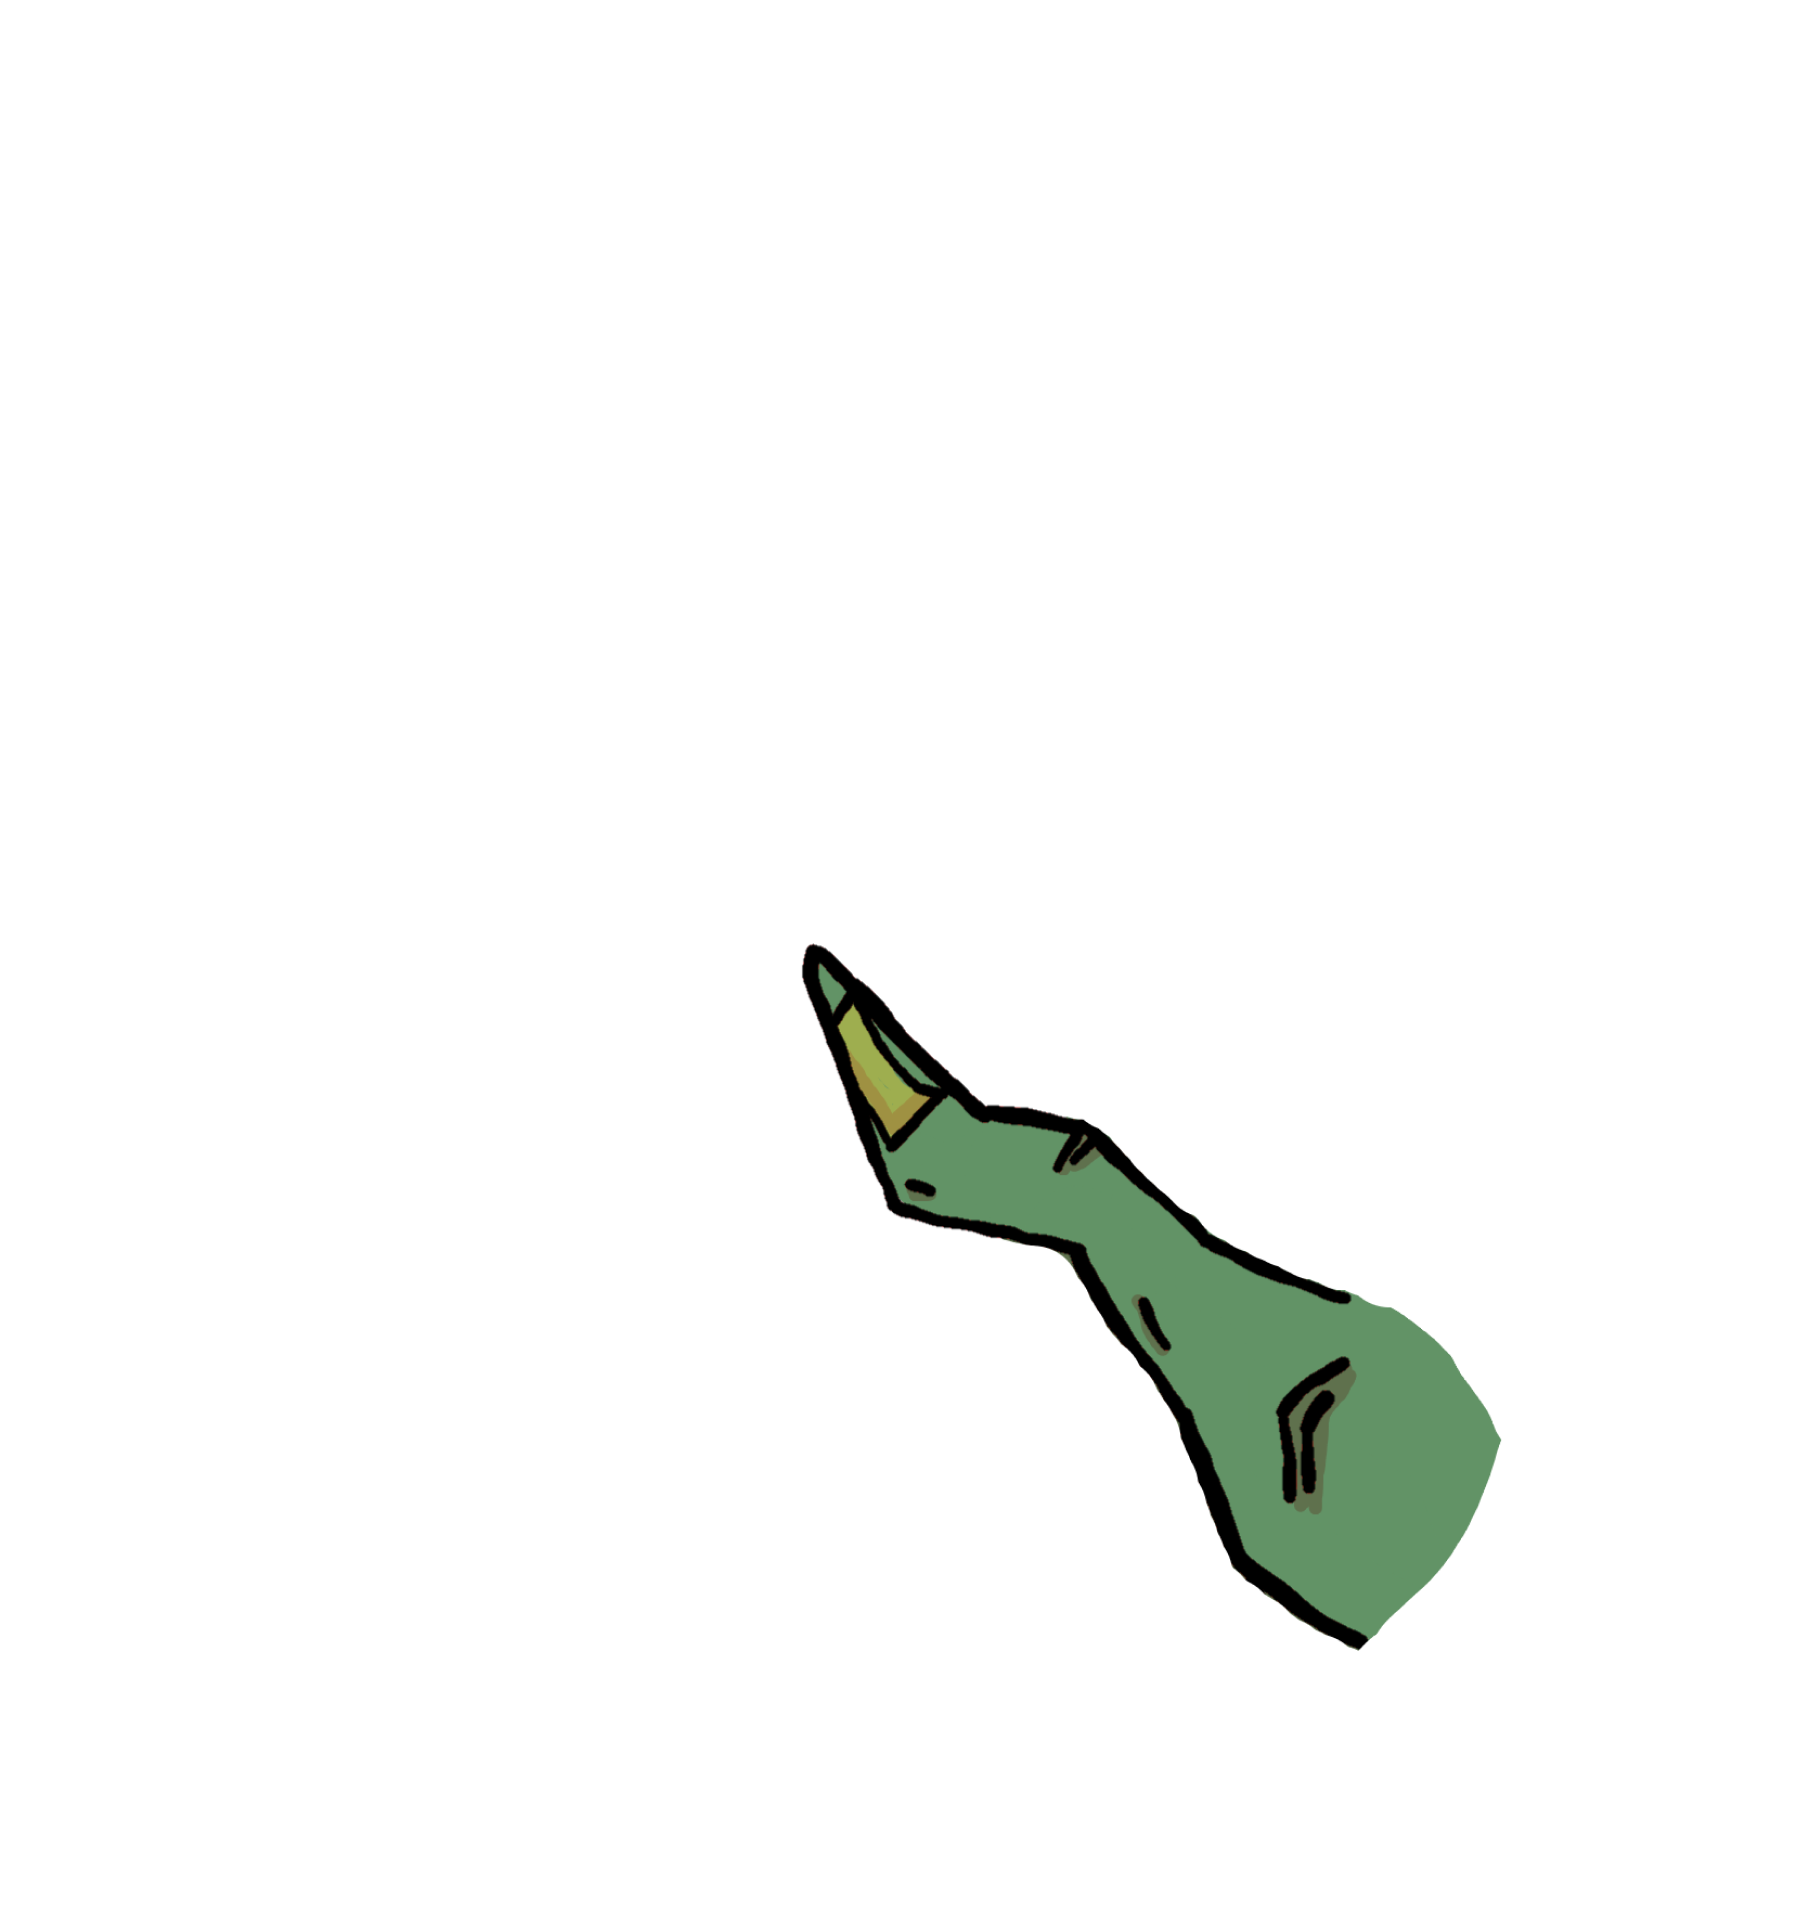
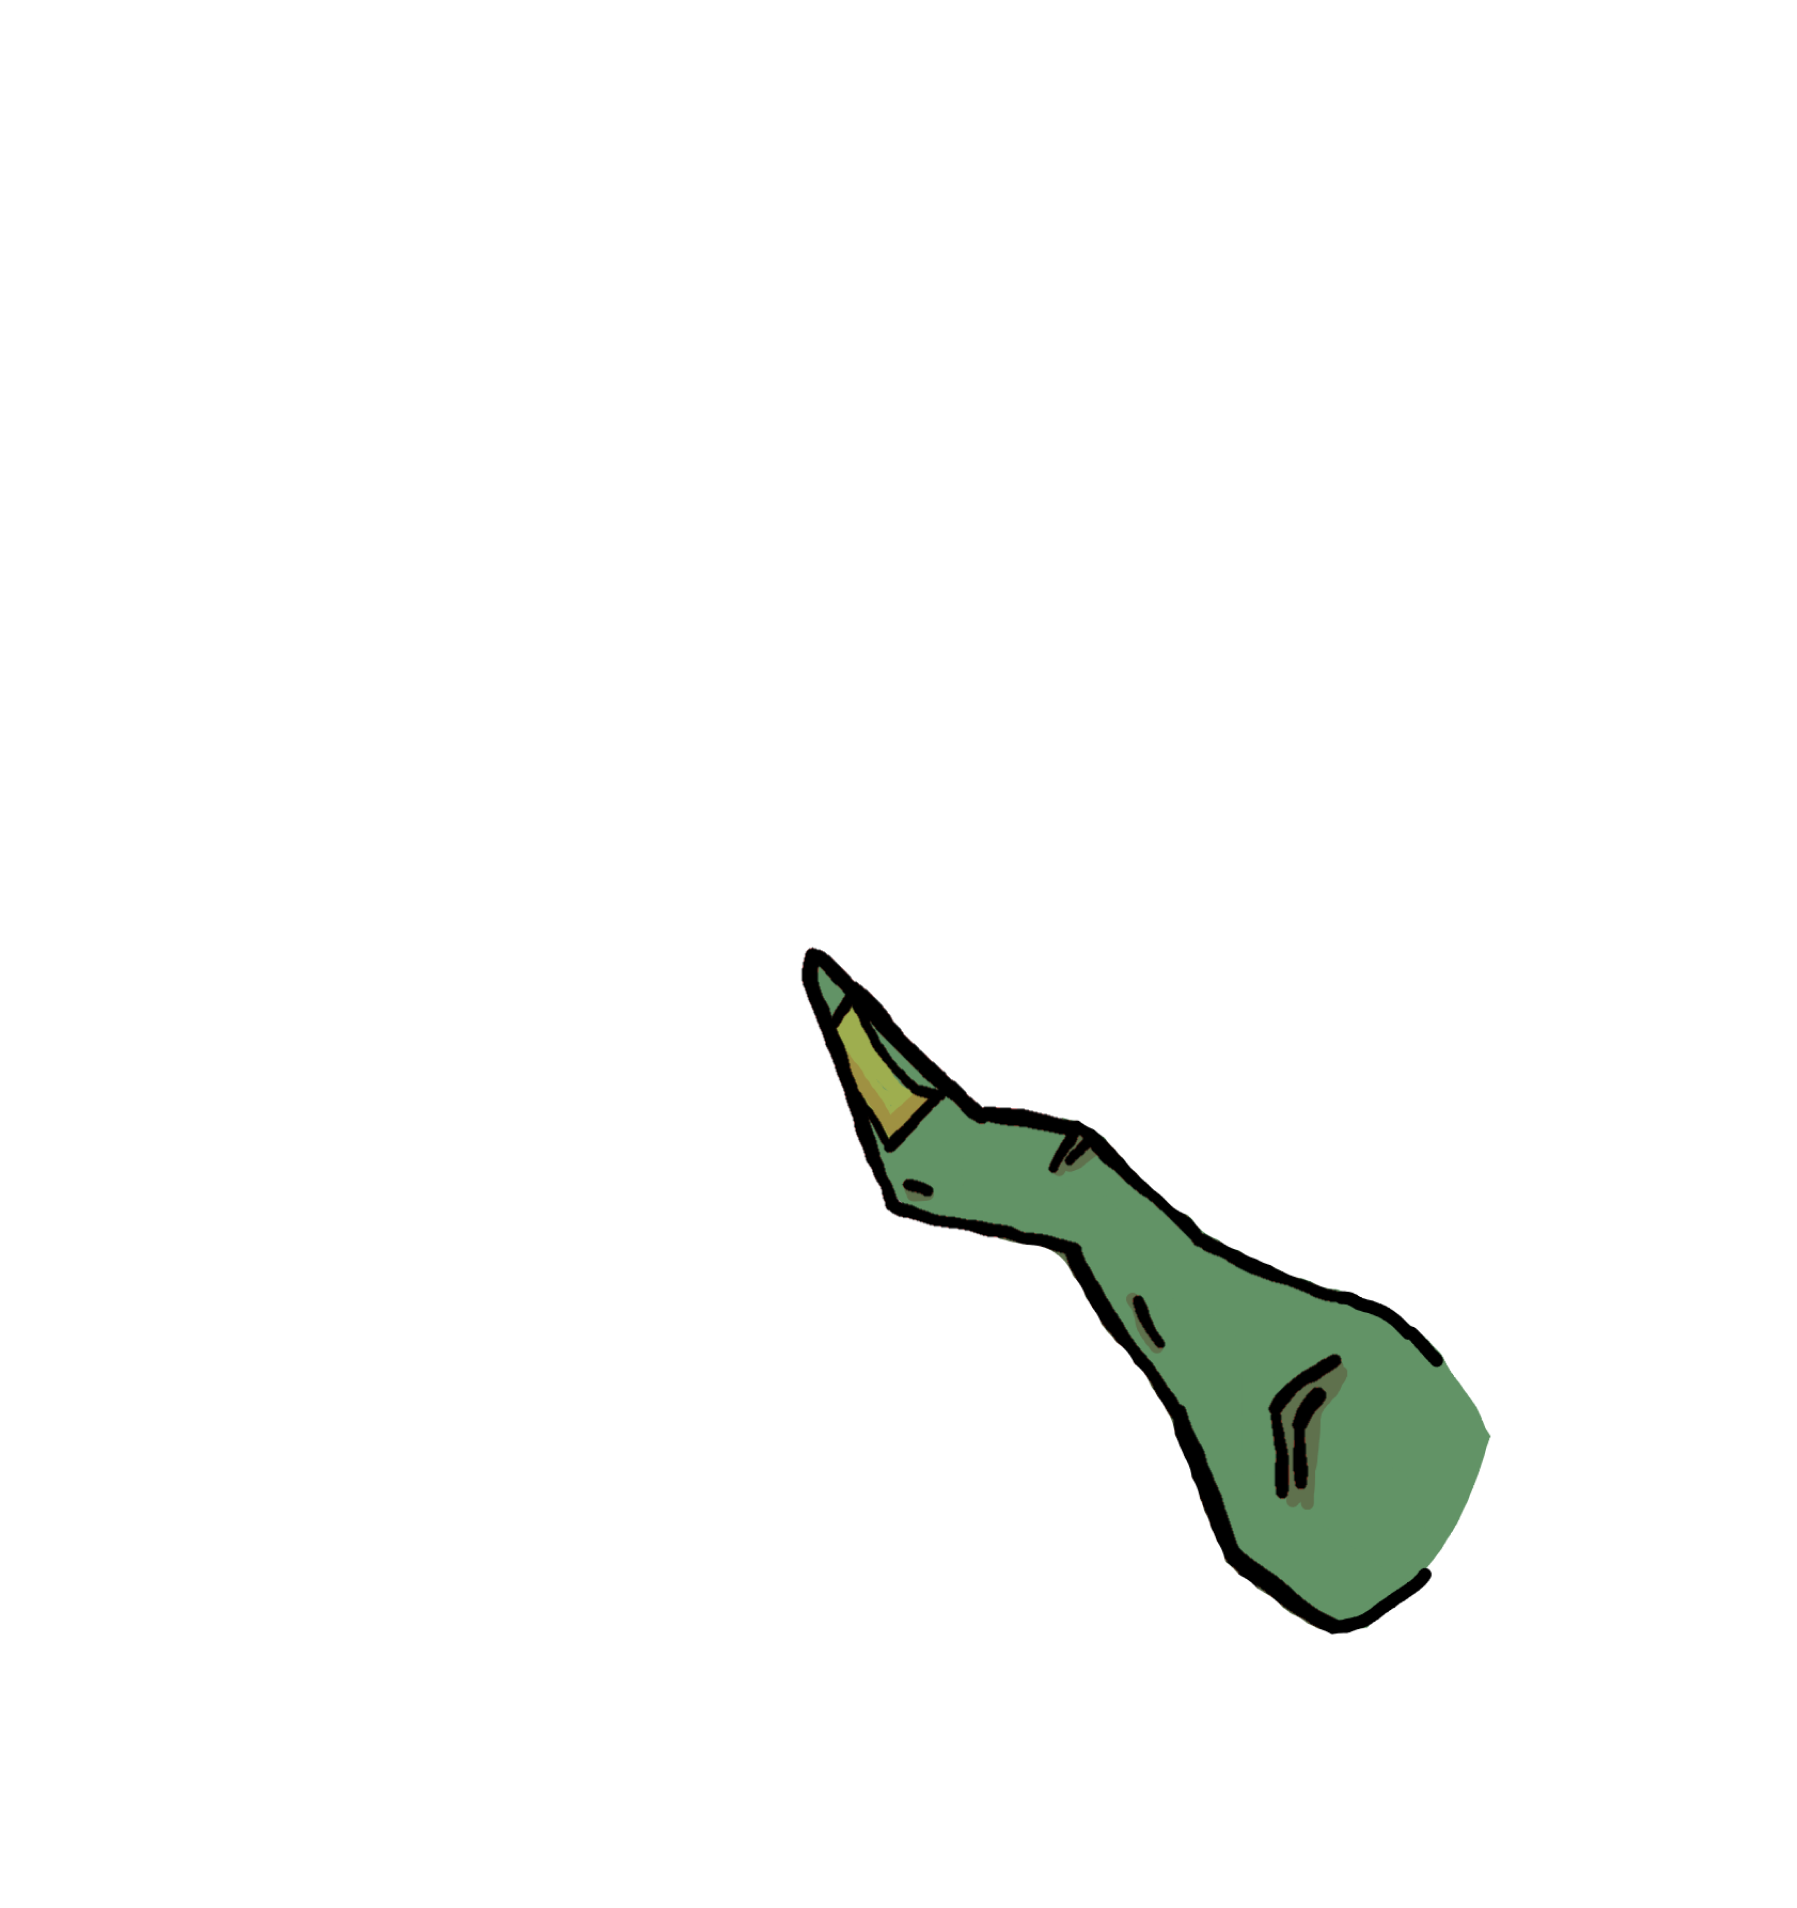
Update phone component & minor updates

diff --git a/src/routes/index.svelte b/src/routes/index.svelte
@@ -1,56 +1,35 @@
 <script lang="ts">
 	import { PageMeta } from '$util/meta';
-
-	import Phone from '$components/phone/Phone.svelte';
-	// import GoblinGirl from '$components/GoblinGirl.svelte';
-	import Ground from '$components/environment/Ground.svelte';
-	import Background from '$components/environment/Background.svelte';
 </script>
 
 <PageMeta />
-<section class="index-page">
-	<Phone>
-		<p>Test</p>
-		<p>Test</p>
-		<p>Test</p>
-		<p>Test</p>
-		<p>Test</p>
-		<p>Test</p>
-		<p>Test</p>
-		<p>Test</p>
-		<p>Test</p>
-		<p>Test</p>
-		<p>Test</p>
-		<p>Test</p>
-		<p>Test</p>
-		<p>Test</p>
-		<p>Test</p>
-		<p>Test</p>
-		<p>Test</p>
-		<p>Test</p>
-		<p>Test</p>
-		<p>Test</p>
-		<p>Test</p>
-		<p>Test</p>
-
-		<p>Test</p>
-		<p>Test</p>
-		<p>Test</p>
-		<p>Test</p>
-		<p>Test</p>
-		<p>Test</p>
-		<p>Test</p>
-	</Phone>
-	<!-- <GoblinGirl /> -->
-	<Ground />
-	<Background />
-</section>
-
-<style lang="scss">
-	.index-page {
-		position: relative;
-		max-width: 100vw;
-		max-height: 100vh;
-		overflow: hidden;
-	}
-</style>
+<p>Test</p>
+<p>Test</p>
+<p>Test</p>
+<p>Test</p>
+<p>Test</p>
+<p>Test</p>
+<p>Test</p>
+<p>Test</p>
+<p>Test</p>
+<p>Test</p>
+<p>Test</p>
+<p>Test</p>
+<p>Test</p>
+<p>Test</p>
+<p>Test</p>
+<p>Test</p>
+<p>Test</p>
+<p>Test</p>
+<p>Test</p>
+<p>Test</p>
+<p>Test</p>
+<p>Test</p>
+<a href="/test">Link</a>
+<p>Test</p>
+<p>Test</p>
+<p>Test</p>
+<p>Test</p>
+<p>Test</p>
+<p>Test</p>
+<p>Test</p>

diff --git a/src/components/phone/Thumb.svelte b/src/components/phone/Thumb.svelte
@@ -1,0 +1,40 @@
+<script lang="ts">
+	export let display: HTMLElement;
+
+	let thumb: HTMLElement;
+	let bounds: DOMRect;
+
+	const moveThumb = (e: MouseEvent) => {
+		const cursorX = e.clientX;
+		const leftX = cursorX - bounds.x;
+		const rotateDegMax = 27;
+		const rotateDegMin = -27;
+
+		thumb.style.transform = `rotate(${
+			((rotateDegMax - rotateDegMin) * leftX) / bounds.width + rotateDegMin
+		}deg)`;
+	};
+
+	$: if (display) {
+		display.onmouseenter = () => {
+			bounds = display.getBoundingClientRect();
+			document.addEventListener('mousemove', moveThumb);
+		};
+
+		display.onmouseleave = () => {
+			document.removeEventListener('mousemove', moveThumb);
+			thumb.style.transform = 'rotate(0deg)';
+		};
+	}
+</script>
+
+<div bind:this={thumb} class="thumb" {...$$restProps}>
+	<img src="/assets/images/phone/thumb.png" alt="Thumb" />
+</div>
+
+<style lang="scss">
+	.thumb {
+		transform-origin: 72% 82%;
+		transition: transform 75ms ease-in-out;
+	}
+</style>

diff --git a/src/components/phone/Phone.svelte b/src/components/phone/Phone.svelte
@@ -1,11 +1,15 @@
+<script lang="ts">
+	import Thumb from './Thumb.svelte';
+
+	let display: HTMLElement;
+</script>
+
 <div class="phone" {...$$restProps}>
-	<div class="thumb">
-		<img src="/assets/images/phone/thumb.png" alt="Thumb" />
-	</div>
+	<Thumb bind:display />
 	<div class="foreground">
 		<img src="/assets/images/phone/foreground.png" alt="Phone foreground" />
 	</div>
-	<div class="content">
+	<div bind:this={display} class="content">
 		<slot />
 	</div>
 	<div class="background">
@@ -31,11 +35,11 @@
 			transform: translateX(-50%) rotate(0);
 		}
 
-		.thumb,
+		:global(.thumb),
 		.foreground,
 		.background,
 		.space-keeper {
-			img {
+			:global(img) {
 				display: block;
 				max-height: 100vh;
 				max-width: 100vw;
@@ -60,7 +64,7 @@
 			z-index: 2;
 		}
 
-		.thumb,
+		:global(.thumb),
 		.foreground,
 		.background {
 			position: absolute;
@@ -69,7 +73,7 @@
 			pointer-events: none;
 		}
 
-		.thumb {
+		:global(.thumb) {
 			z-index: 4;
 		}
 

diff --git a/src/routes/__layout.svelte b/src/routes/__layout.svelte
@@ -1,5 +1,24 @@
 <script>
+	import Phone from '$components/phone/Phone.svelte';
+	import Ground from '$components/environment/Ground.svelte';
+	import Background from '$components/environment/Background.svelte';
+
 	import '../styles/__global.scss';
 </script>
 
-<slot />
+<main>
+	<Phone>
+		<slot />
+	</Phone>
+	<Ground />
+	<Background />
+</main>
+
+<style lang="scss">
+	:global(main) {
+		position: relative;
+		max-width: 100vw;
+		max-height: 100vh;
+		overflow: hidden;
+	}
+</style>
